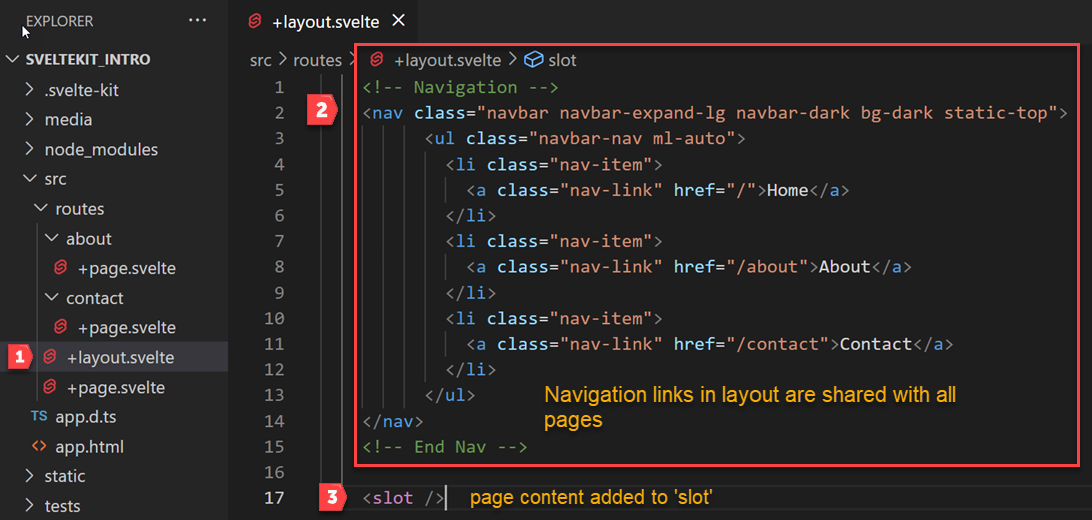
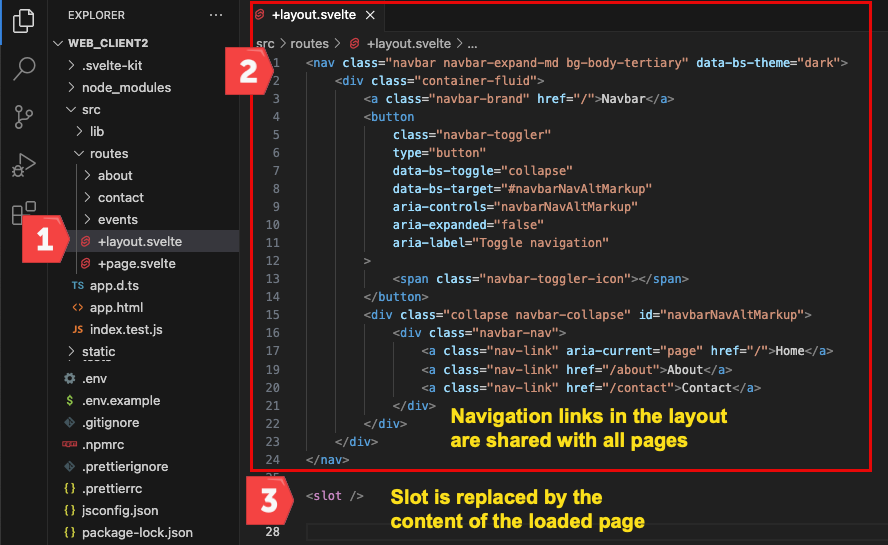
update nav

Changed region(s): [[0.0, 0.0, 1.0, 1.0], [0.0, 0.0, 0.1824, 0.2462], [0.0, 0.2769, 0.152, 0.3692]]

diff --git a/readme.md b/readme.md
@@ -151,9 +151,37 @@ Open the new page routs in a browser. You will see that the the page/ route name
 
 A shared layout definition can be used to easily add navigation links to all the pages. Add **```+layout.svelte```** to the **routes** folder:
 
-![16.layout_svelte](./assets/16.layout_svelte.png)
+![16.layout_svelte](assets/16.layout_svelte.png)
 
 The navigation menu uses Bootstrap 5 for styling. Also note the **```<slot />```** element. This indicates where content from each page (about, contact, etc.) will be added when the page is generated by Sveltekit.
+
+```html
+<nav class="navbar navbar-expand-md bg-body-tertiary" data-bs-theme="dark">
+	<div class="container-fluid">
+		<a class="navbar-brand" href="/">Navbar</a>
+		<button
+			class="navbar-toggler"
+			type="button"
+			data-bs-toggle="collapse"
+			data-bs-target="#navbarNavAltMarkup"
+			aria-controls="navbarNavAltMarkup"
+			aria-expanded="false"
+			aria-label="Toggle navigation"
+		>
+			<span class="navbar-toggler-icon"></span>
+		</button>
+		<div class="collapse navbar-collapse" id="navbarNavAltMarkup">
+			<div class="navbar-nav">
+				<a class="nav-link" aria-current="page" href="/">Home</a>
+				<a class="nav-link" href="/about">About</a>
+				<a class="nav-link" href="/contact">Contact</a>
+			</div>
+		</div>
+	</div>
+</nav>
+```
+
+
 
 
 
@@ -170,15 +198,23 @@ Get the latest CDN links from **https://getbootstrap.com/** and add them to the 
 Copy from here:
 
 ```html
-<!-- Bootstrap CSS -->
-<link href="https://cdn.jsdelivr.net/npm/bootstrap@5.3.2/dist/css/bootstrap.min.css" rel="stylesheet" integrity="sha384-T3c6CoIi6uLrA9TneNEoa7RxnatzjcDSCmG1MXxSR1GAsXEV/Dwwykc2MPK8M2HN" crossorigin="anonymous">
+		<!-- Bootstrap CSS -->
+		<link
+			href="https://cdn.jsdelivr.net/npm/bootstrap@5.3.3/dist/css/bootstrap.min.css"
+			rel="stylesheet"
+			integrity="sha384-QWTKZyjpPEjISv5WaRU9OFeRpok6YctnYmDr5pNlyT2bRjXh0JMhjY6hW+ALEwIH"
+			crossorigin="anonymous"/>
+		<!-- Bootstrap Icons -->
+		<link
+			rel="stylesheet"
+			href="https://cdn.jsdelivr.net/npm/bootstrap-icons@1.11.3/font/bootstrap-icons.min.css"/>
 
-<!-- Bootstrap Icons -->
-<link rel="stylesheet" href="https://cdn.jsdelivr.net/npm/bootstrap-icons@1.11.3/font/bootstrap-icons.min.css">
-
-<!-- Bootstrap JavaScript -->
-<script src="https://cdn.jsdelivr.net/npm/bootstrap@5.3.2/dist/js/bootstrap.bundle.min.js" integrity="sha384-C6RzsynM9kWDrMNeT87bh95OGNyZPhcTNXj1NW7RuBCsyN/o0jlpcV8Qyq46cDfL" crossorigin="anonymous"></script>
-
+		<!-- Bootstrap JavaScript -->
+		<script
+			src="https://cdn.jsdelivr.net/npm/bootstrap@5.3.3/dist/js/bootstrap.bundle.min.js"
+			integrity="sha384-YvpcrYf0tY3lHB60NNkmXc5s9fDVZLESaAA55NDzOxhy9GkcIdslK1eN7N6jIeHz"
+			crossorigin="anonymous">
+	  </script>
 ```
 
 
